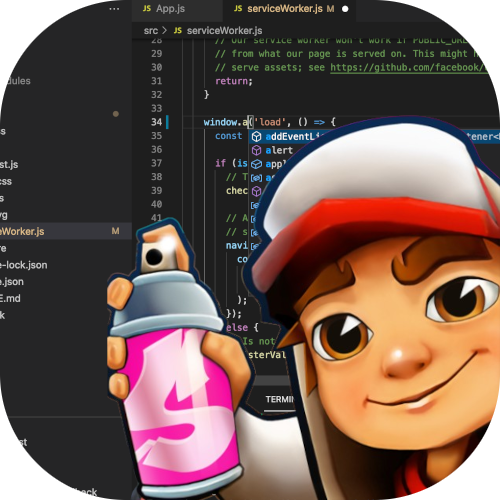
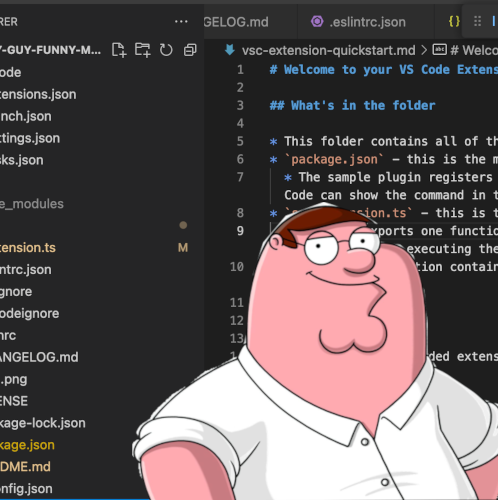
Modified code to fight boredom more effectively.

diff --git a/src/extension.ts b/src/extension.ts
@@ -4,7 +4,7 @@ import * as vscode from 'vscode';
 
 const videos = [
 	"Zxl28UgHpn0",
-	"mn-Tlb_wfjc",
+	"fytR78K6rHs",
 	"rROQPPTdQGs",
 	"i0mfOuMLykM"
 ];
@@ -16,11 +16,12 @@ export function activate(context: vscode.ExtensionContext) {
 	// The command has been defined in the package.json file
 	// Now provide the implementation of the command with registerCommand
 	// The commandId parameter must match the command field in package.json
-	let disposable = vscode.commands.registerCommand('family-guy-funny-moments.funnies', () => {
-		const column = { viewColumn: vscode.ViewColumn.Beside, preserverFocus: true };
-		const options = { enableScripts: true };
+	let disposable = vscode.commands.registerCommand('family-guy-funny-moments.funniesBelow', () => {
+		const column = { viewColumn: vscode.ViewColumn.Beside};
+		const options = { enableScripts: true, splitView: true };
 
-		const panel = vscode.window.createWebviewPanel('funny-moments.video', "This code boring ah hell", column, options);
+		const panel = vscode.window.createWebviewPanel('funny-moments.video', "code boring asf 💀💀", column, options);
+        vscode.commands.executeCommand('workbench.action.moveActiveEditorGroupDown');
         let randomNum = Math.floor(Math.random() * 4);
 		const video = videos[randomNum];
 
@@ -43,7 +44,7 @@ export function activate(context: vscode.ExtensionContext) {
                 </head>
                 <body>
                     <div id="video">
-						<video autoplay muted controls width="300">
+						<video autoplay muted controls width="50%">
 							<source src="https://yewtu.be/latest_version?id=${video}&amp;itag=22#t=100">
 						</video>
 					</div>
@@ -53,6 +54,44 @@ export function activate(context: vscode.ExtensionContext) {
 	});
 
 	context.subscriptions.push(disposable);
+
+    let disposable2 = vscode.commands.registerCommand('family-guy-funny-moments.funniesSide', () => {
+		const column = { viewColumn: vscode.ViewColumn.Beside};
+		const options = { enableScripts: true, splitView: true };
+
+		const panel = vscode.window.createWebviewPanel('funny-moments.video', "code boring asf 💀💀", column, options);
+        let randomNum = Math.floor(Math.random() * 4);
+		const video = videos[randomNum];
+
+		panel.reveal();
+		panel.webview.html = `
+            <html lang="en"> 
+                <head>
+                    <meta charset="utf-8"/>
+                    <meta name="viewport" content="width=device-width, initial-scale=1.0">
+                    <style>
+                        #video {
+                            display: flex;
+                            flex-flow: column nowrap;
+                            justify-content: center;
+                            align-items: center;
+                            width: 100%;
+                            height: 100%;
+                        }
+                    </style>
+                </head>
+                <body>
+                    <div id="video">
+						<video autoplay muted controls width="100%">
+							<source src="https://yewtu.be/latest_version?id=${video}&amp;itag=22#t=100">
+						</video>
+					</div>
+                </body>
+            </html>
+        `;
+	});
+
+	context.subscriptions.push(disposable2);
 }
 
 // This method is called when your extension is deactivated

diff --git a/README.md b/README.md
@@ -1,5 +1,7 @@
 # On-Demand Family Guy Funny Moments for When You Code
 
-## To activate this extension use the `need more stimulation 💀💀💀💀` command from the command palette (`Ctrl + Shift + P` / `⇧ ⌘ P`)
+## To activate this extension use either the `need more stimulation under my code 💀💀💀💀` command or the `need more stimulation to the side 💀💀💀💀` from the command palette (`Ctrl + Shift + P` / `⇧ ⌘ P`)
 
-![VS Code Funny Moments](https://i.imgur.com/IAYr09o.png)
+## I stole a lot of this from https://github.com/jirkavrba/vscode-subway-surfers, and in honor of that, I have ensured that this also allows you to open a tab to the bottom of your viewport to allow you to watch subway surfers AND family guy funny moments at the same time. Coding has never been more entertaining.
+
+![VS Code Funny Moments](https://imgur.com/RDQmCl2.png)
